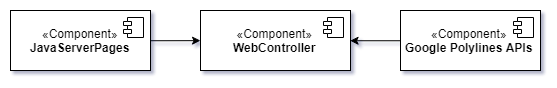
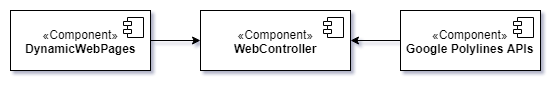
TSP and javaServerPages fixed

diff --git a/DD/2-ArchitecturalDesign/2-component_view.tex b/DD/2-ArchitecturalDesign/2-component_view.tex
@@ -31,7 +31,7 @@ The main components of the Application Server are:
 \end{figure}
 	This subsystem will implement almost all the core functionalities of our system.\\ It is composed of four main components:
 	\begin{itemize}
-		\item \textbf{PathManager:} This module will manage the user travels computation, after the insertion or the modification of an event, or also after a specific user requests to change a selected path. It will compute the feasible paths through proprietary internal logic and the involvement of \textit{Google Maps API}. It will also interact with the \textit{PreferenceManager} in order to obtain the information needed to guarantee that the user preferences are respected in every proposed path;
+		\item \textbf{PathManager:} This module will manage the user travels computation, after the insertion or the modification of an event, or also after a specific user requests to change a selected path. It will compute the feasible paths through proprietary internal logic and the involvement of \textit{Google Maps API} and it will require \textit{TSP APIs} of shared vehicles companies in order to include these travels means into the paths. It will also interact with the \textit{PreferenceManager} in order to obtain the information needed to guarantee that the user preferences are respected in every proposed path;
 		\item \textbf{EventManager:} This module will manage the insertion, deletion and modification of the events into the user calendar. It will interact with the \textit{ScheduleManager} in order to find out if an event does overlap with other events. When an event is created it will involve the \textit{PathManager} in order to provide feasible paths to reach the inserted events. It will also handle insertion, deletion and modification of the flexible breaks;
 		\item \textbf{ScheduleManager:} This module will manage the event's scheduling functionalities: it is able to check if an event overlaps with other events and to guarantee that the flexible breaks are respected. It will also check that the user's travels do not overlap with other events. When an event overlaps with another one, it will put in a separate list of non scheduled events and it will manage the user's requests of rescheduling these events.
 		\item \textbf{PreferenceManager:} This module will offer all the functionalities needed to insert, modify and delete the user's event profiles. It will also interact with the module that has to apply the event profiles in order to compute the travel paths (\textit{PathManager}).
@@ -48,7 +48,7 @@ The main components of the Application Server are:
 	The web server layer connects the users that want to use Travlendar+ through a web browser with the Application Server. \newline
 	The main functions to be implemented in this layer are basically web interfaces.
 	The only logic in this layer is used to embed a map into the relative web page and to draw the paths the user must travel to reach his events. To do so the web browser will interact with\textit{ Google Polylines APIs}.
-	The presentation will be handled by the \textit{JavaServerPages} component that will be implemented using JSP pages. The interaction with the Application server and with the maps APIs will be handled by the \textit{WebController} module.
+	The presentation will be handled by the \textit{DynamicWebPages} component that will contains all the web pages and the logic used to generate them dynamically. The interaction with the Application server and with the maps APIs will be handled by the \textit{WebController} module.
 	
 \begin{figure}[H]
 \begin{center}

diff --git a/DD/6-ImplementationIntegrationTestPlan/implementation_integration_test_plan.tex b/DD/6-ImplementationIntegrationTestPlan/implementation_integration_test_plan.tex
@@ -47,7 +47,7 @@ On client side (App Mobile):
 	\item \textit{DBManager} needs to be integrated with the \textit{LocalDatabase};
 	\item \textit{ApplicationController}, \textit{GUIManager} and \textit{DBManager} needs to be integrated together.
 \end{itemize}
-On web server side \textit{WebController} and \textit{JavaServerPages} needs to be integrated together.
+On web server side \textit{WebController} and \textit{DynamicWebPages} needs to be integrated together.
 All the interactions that single components have with external services APIs have to be tested and their correctness have to be guaranteed before integrate and test phase involving those components begins.
 
 \section{Integration Testing Strategy}
@@ -96,7 +96,7 @@ The \textit{CalendarManager}'s components are strictly correlated and so, in ord
 	\caption{I\&T - PreferenceManager}
 \end{figure}
 
-2. \textit{PathManager} is to be integrated with \textit{PersistenceManager}, \textit{AuthenticationManager}, \textit{GoogleMaps APIs}, \textit{PreferenceManager} and \textit{ScheduleManager}, following this order no stubs will be needed to perform the integration. It is required another driver, beside the one used to test the external interface, in order to simulate the calls performed by \textit{EventManager} to \textit{PathManager}.
+2. \textit{PathManager} is to be integrated with \textit{PersistenceManager}, \textit{AuthenticationManager}, \textit{GoogleMaps APIs}, \textit{PreferenceManager}, \textit{ScheduleManager} and \textit{TSP APIs}, following this order no stubs will be needed to perform the integration. It is required another driver, beside the one used to test the external interface, in order to simulate the calls performed by \textit{EventManager} to \textit{PathManager}.
 \begin{figure}[H]
 	\begin{center}
 		\includegraphics[scale=0.55]{implementation_and_testing/calendar_manager/path.png}
@@ -150,7 +150,7 @@ The following picture is just a recap of the integration and test plan of the \t
 \end{figure}
 \newpage
 \subsubsection{WebServer}
-In the web server subsystem the \textit{WebController} component is to be integrated with \textit{JavaServerPages} and then with \textit{Google Polylines APIs}. 
+In the web server subsystem the \textit{WebController} component is to be integrated with \textit{DynamicWebPages} and then with \textit{Google Polylines APIs}. 
 \begin{figure}[H]
 	\begin{center}
 		\includegraphics[scale=0.7]{implementation_and_testing/web.png}

diff --git a/DD/2-ArchitecturalDesign/1-overview.tex b/DD/2-ArchitecturalDesign/1-overview.tex
@@ -36,7 +36,6 @@ The data layer, that supports all data storage and management operations. This l
 \label{subsubsect:External Systems}
 Those systems are not internal components of our application, but the system-to-be will have to interact with them in order to guarantee all the system functionalities. \\
 Most of their interactions with the system have already been described in the previous paragraphs, but here we will explain in detail the interaction with Transport Service providers: Travlendar+ will initially integrate some external transport services systems (public transport service providers and sharing vehicles providers) but will also offer proper APIs to allow other Transport Service providers to interact with Travlendar+ and therefore to be considered as suggested travel means to the users.
-\todo{what about these to-be-offered APIs?}
 
 \begin{figure}[H]
 \begin{center}
